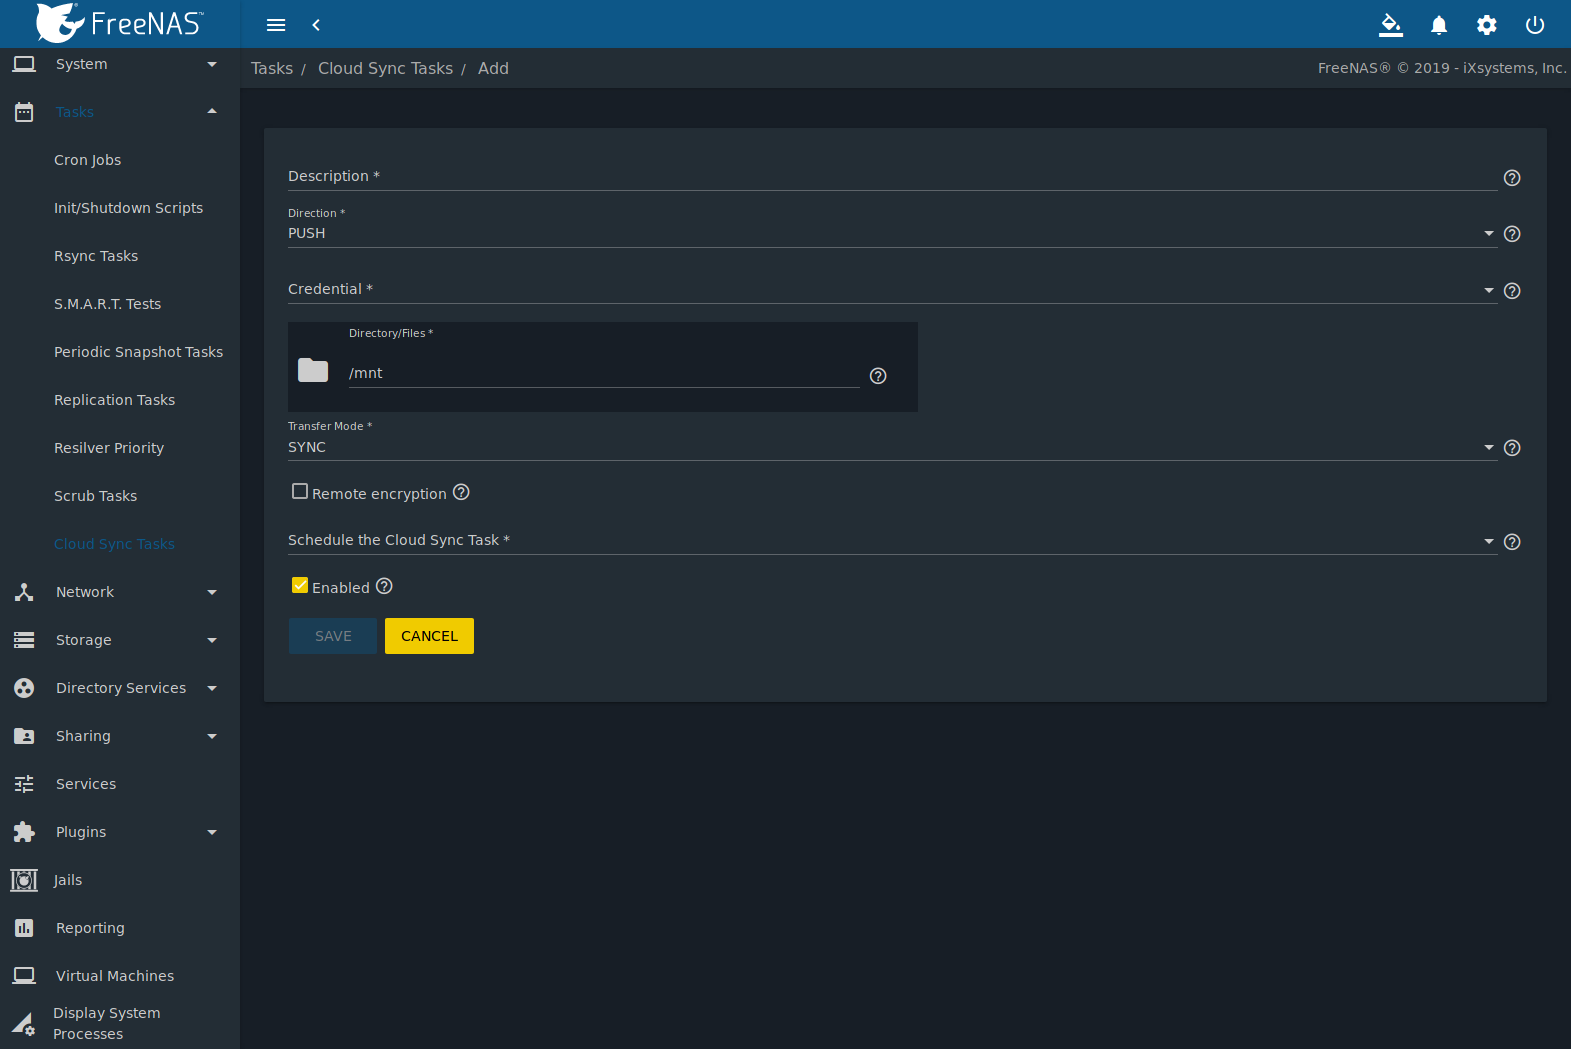
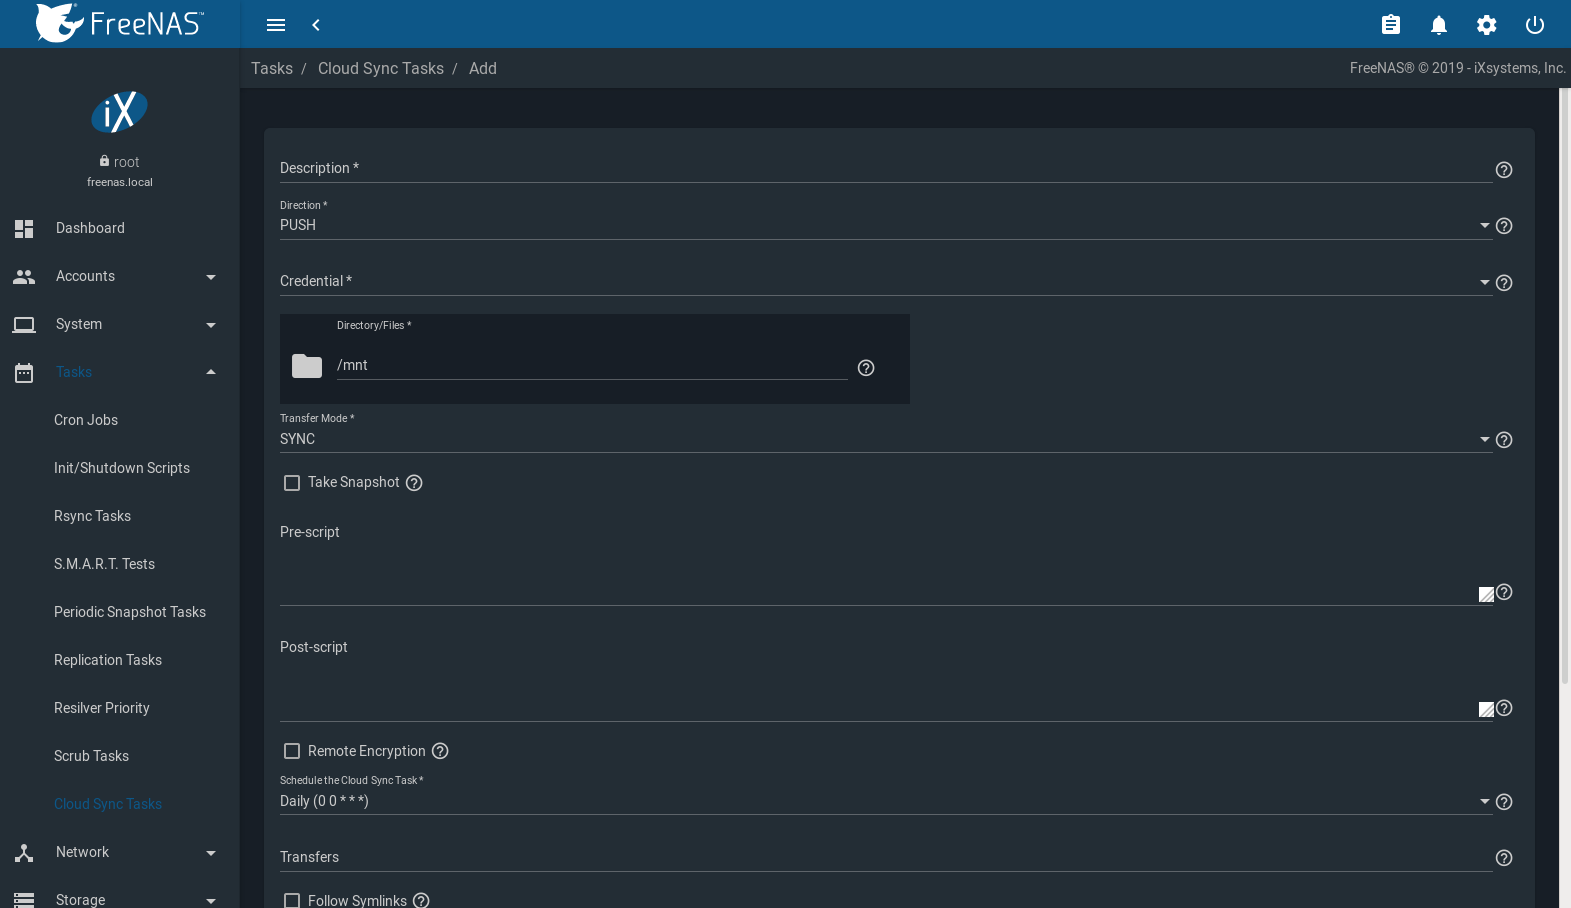
Update Tasks/Cloud Sync table and example images. - Reorganize 'Cloud Sync Options' table to match what is visible in angular ui - Add missing Server Side Encryption field - Update descriptions as needed - Update two outdated images of the Cloud Sync Tasks/Add form - HTML build test: no issues.

diff --git a/userguide/tasks.rst b/userguide/tasks.rst
@@ -1674,14 +1674,16 @@ shows the configuration options for Cloud Syncs.
    | Bucket/Container    | drop-down menu      | :guilabel:`Bucket`: Only appears when an S3 credential is the *Provider*. Select the predefined            |
    |                     |                     | S3 bucket to use.                                                                                          |
    |                     |                     |                                                                                                            |
-   |                     |                     | :guilabel:`Container`: Only appears when a :literal:`AZUREBLOB` credential is selected for the             |
-   |                     |                     | :guilabel:`Credential`. Enter the name of the pre-configured Microsoft Azure Blob container.               |
+   |                     |                     | :guilabel:`Container`: Only appears when a :literal:`AZUREBLOB` or :literal:`hubiC` credential is selected |
+   |                     |                     | as the :guilabel:`Credential`. Enter the pre-configured container name.                                    |
    |                     |                     |                                                                                                            |
    +---------------------+---------------------+------------------------------------------------------------------------------------------------------------+
-   | Upload Chunk Size   | integer             | Files are split into chunks of this size before upload. Only appears with a *(B2)*                         |
-   | (MiB)               |                     | :guilabel:`Credential`. The number of chunks that can be simultaneously transferred is set by the          |
-   |                     |                     | :guilabel:`Transfers` number. The single largest file being transferred must fit into no more than         |
-   |                     |                     | 10,000 chunks.                                                                                             |
+   | Folder              | browse button       | The name of the predefined folder within the selected bucket or container. Type the name or click          |
+   |                     |                     | |ui-browse| to list the remote filesystem and choose the folder.                                           |
+   |                     |                     |                                                                                                            |
+   +---------------------+---------------------+------------------------------------------------------------------------------------------------------------+
+   | Server Side         | drop-down menu      | Active encryption on the cloud provider account. Choose *None* or *AES-256*. Only visible when the cloud   |
+   | Encryption          |                     | provider supports encryption.                                                                              |
    +---------------------+---------------------+------------------------------------------------------------------------------------------------------------+
    | Storage Class       | drop-down menu      | Classification for each S3 object. Choose a class based on the specific use case or performance            |
    |                     |                     | requirements. See                                                                                          |
@@ -1690,9 +1692,10 @@ shows the configuration options for Cloud Syncs.
    |                     |                     | :guilabel:`Storage Class` only appears when an S3 credential is the *Provider*.                            |
    |                     |                     |                                                                                                            |
    +---------------------+---------------------+------------------------------------------------------------------------------------------------------------+
-   | Folder              | browse button       | The name of the predefined folder within the selected bucket or container. Type the name or click          |
-   |                     |                     | |ui-browse| to list the remote filesystem and choose the folder.                                           |
-   |                     |                     |                                                                                                            |
+   | Upload Chunk Size   | integer             | Files are split into chunks of this size before upload. Only appears with a *(B2)*                         |
+   | (MiB)               |                     | :guilabel:`Credential`. The number of chunks that can be simultaneously transferred is set by the          |
+   |                     |                     | :guilabel:`Transfers` number. The single largest file being transferred must fit into no more than         |
+   |                     |                     | 10,000 chunks.                                                                                             |
    +---------------------+---------------------+------------------------------------------------------------------------------------------------------------+
    | Use --fast-list     | checkbox            | Only appears with a compatible :guilabel:`Credential`.                                                     |
    |                     |                     | `Use fewer transactions in exchange for more RAM <https://rclone.org/docs/\#fast-list>`__.                 |
@@ -1724,19 +1727,19 @@ shows the configuration options for Cloud Syncs.
    | Post-script         | string              | Enter a script to execute after the Cloud Sync Task is run.                                                |
    |                     |                     |                                                                                                            |
    +---------------------+---------------------+------------------------------------------------------------------------------------------------------------+
-   | Remote encryption   | checkbox            | Set to encrypt files before transfer and store the encrypted files on the remote system.                   |
+   | Remote Encryption   | checkbox            | Set to encrypt files before transfer and store the encrypted files on the remote system.                   |
    |                     |                     | `rclone Crypt <https://rclone.org/crypt/>`__ is used.                                                      |
    |                     |                     |                                                                                                            |
    +---------------------+---------------------+------------------------------------------------------------------------------------------------------------+
-   | Filename encryption | checkbox            | Set to encrypt the shared file names. Only appears when :guilabel:`Remote encryption` is enabled.          |
+   | Filename Encryption | checkbox            | Set to encrypt the shared file names. Only appears when :guilabel:`Remote encryption` is enabled.          |
    |                     |                     |                                                                                                            |
    +---------------------+---------------------+------------------------------------------------------------------------------------------------------------+
-   | Encryption password | string              | Only appears when :guilabel:`Remote encryption` is enabled. Enter the password to encrypt and decrypt      |
+   | Encryption Password | string              | Only appears when :guilabel:`Remote encryption` is enabled. Enter the password to encrypt and decrypt      |
    |                     |                     | remote data. *Warning:* Always save and back up this password. Losing the encryption password can          |
    |                     |                     | result in data loss.                                                                                       |
    |                     |                     |                                                                                                            |
    +---------------------+---------------------+------------------------------------------------------------------------------------------------------------+
-   | Encryption salt     | string              | Enter a long string of random characters for use as                                                        |
+   | Encryption Salt     | string              | Enter a long string of random characters for use as                                                        |
    |                     |                     | `salt <https://searchsecurity.techtarget.com/definition/salt>`__                                           |
    |                     |                     | for the encryption password. Only appears when :guilabel:`Remote encryption` is enabled.                   |
    |                     |                     | *Warning:* Save and back up the encryption salt value. Losing the salt value can result in data loss.      |
